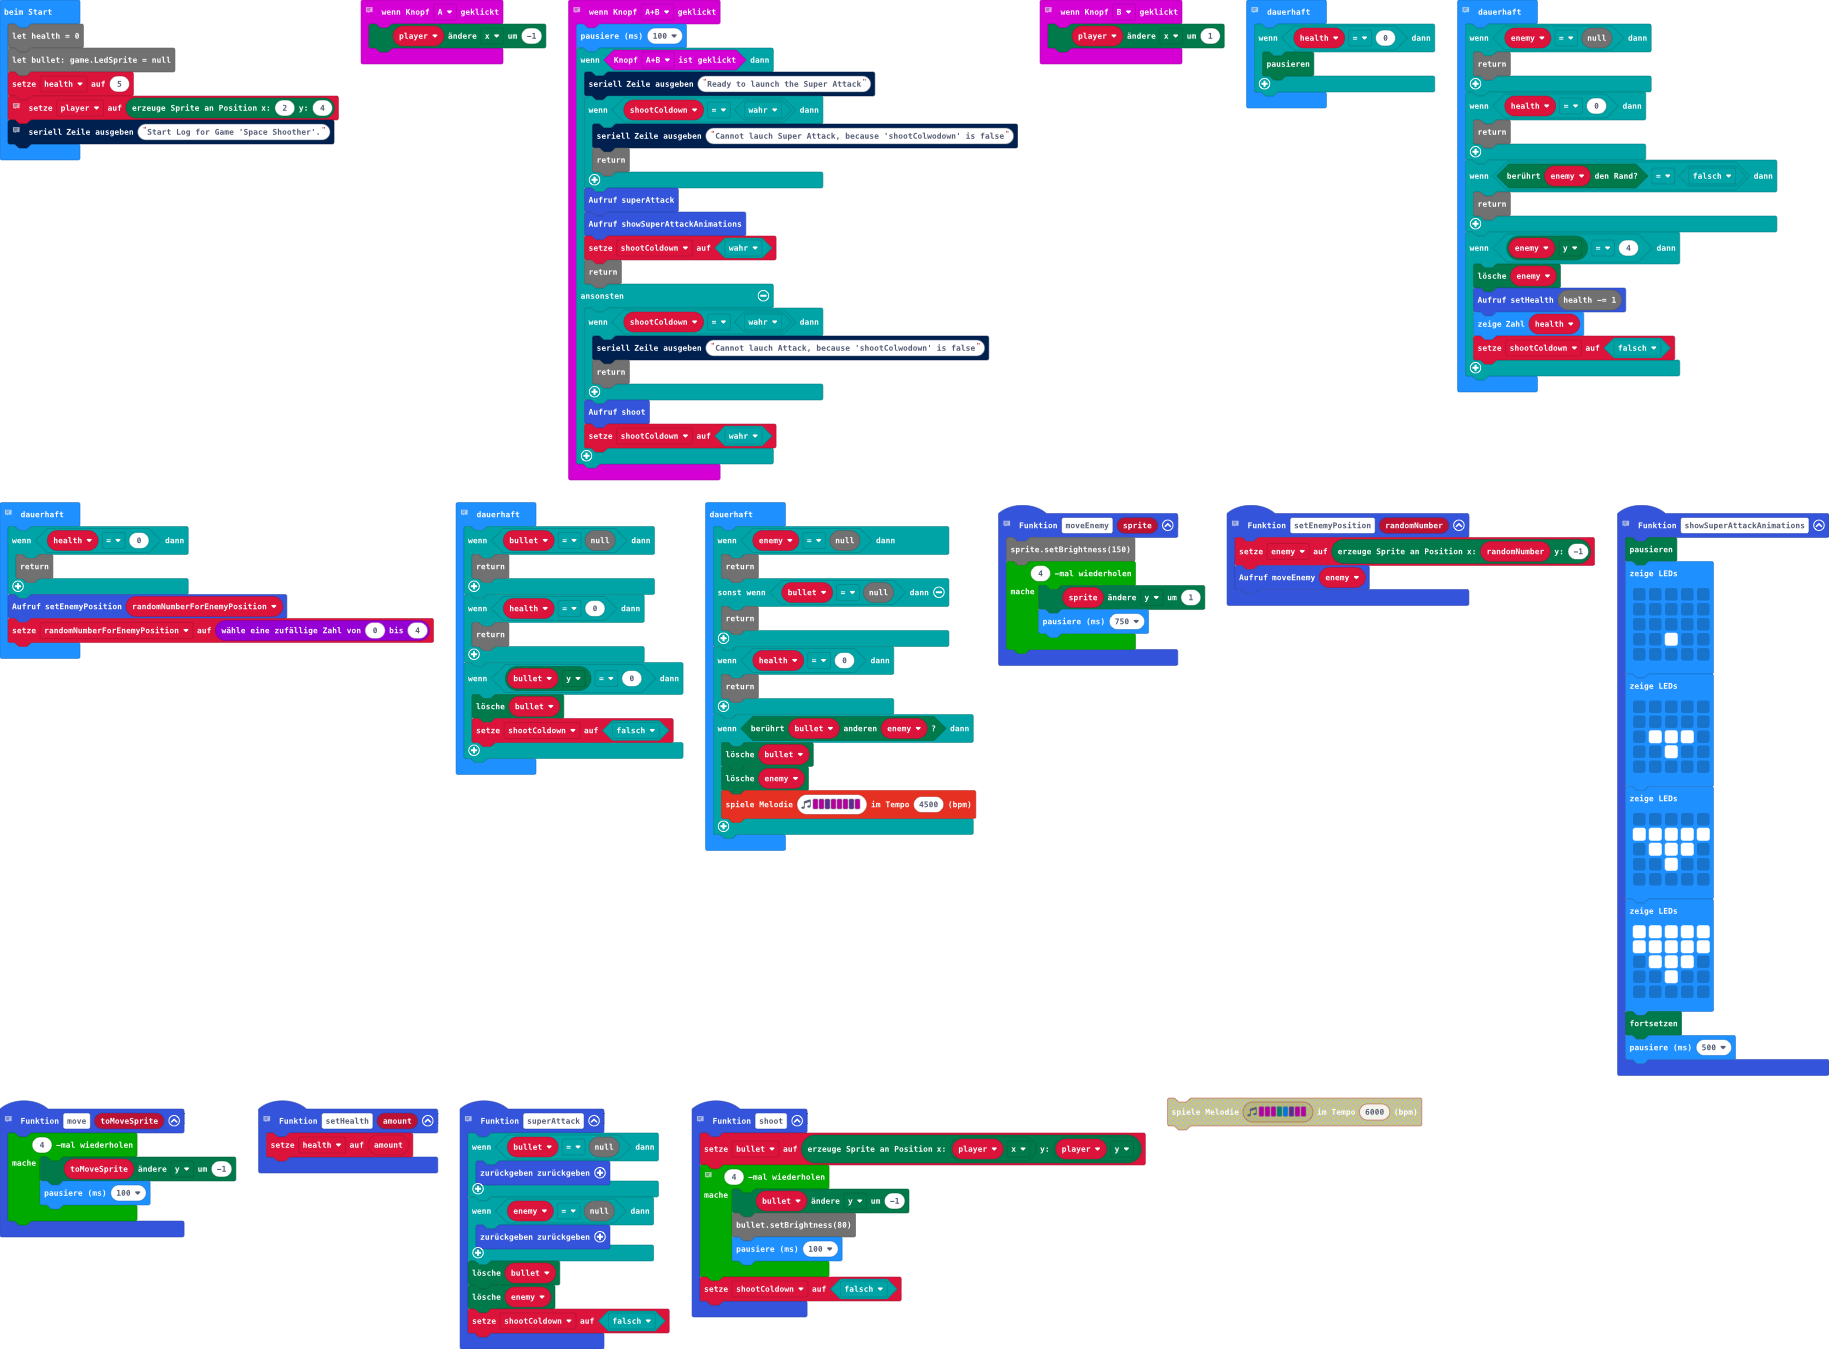
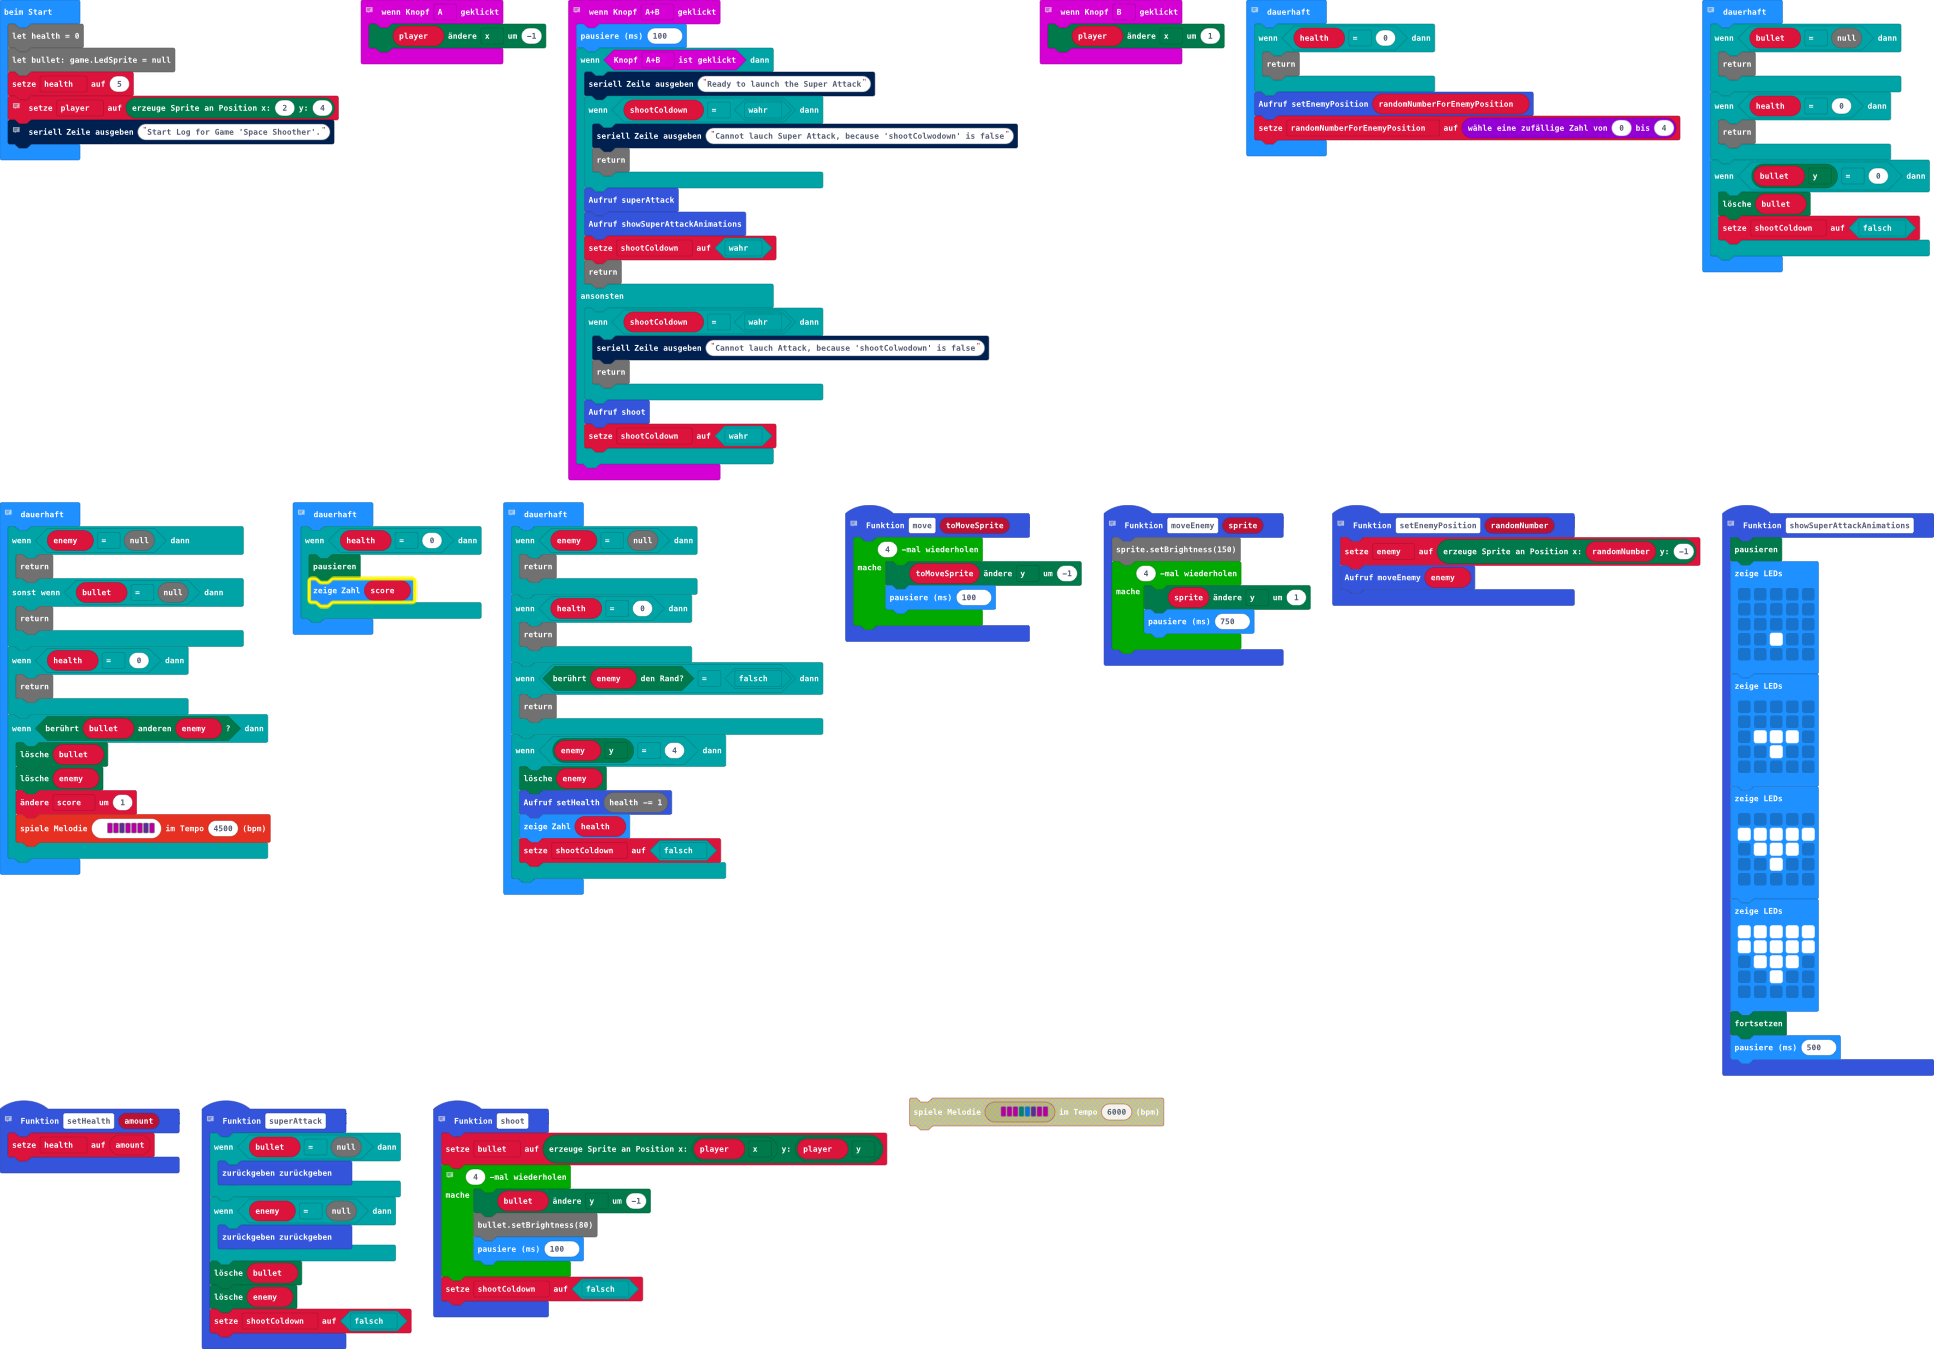
Add a Score

diff --git a/main.ts b/main.ts
@@ -109,6 +109,7 @@ function setEnemyPosition (randomNumber: number) {
     enemy = game.createSprite(randomNumber, -1)
     moveEnemy(enemy)
 }
+let score = 0
 let randomNumberForEnemyPosition = 0
 let enemy: game.LedSprite = null
 let shootColdown = false
@@ -120,13 +121,52 @@ health = 5
 player = game.createSprite(2, 4)
 // Startlog
 serial.writeLine("Start Log for Game 'Space Shoother'.")
-// Check health
+// Forever function for spawning Enemys with a random Position
+basic.forever(function () {
+    if (health == 0) {
+        return
+    }
+    setEnemyPosition(randomNumberForEnemyPosition)
+    randomNumberForEnemyPosition = randint(0, 4)
+})
+// Forever function for deleting 'bullet' when the Y - Coordinate is 0
+basic.forever(function () {
+    if (bullet == null) {
+        return
+    }
+    if (health == 0) {
+        return
+    }
+    if (bullet.get(LedSpriteProperty.Y) == 0) {
+        bullet.delete()
+        shootColdown = false
+    }
+})
+// Deleteing 'enemy' and 'bullet' when them touching herself
+basic.forever(function () {
+    if (enemy == null) {
+        return
+    } else if (bullet == null) {
+        return
+    }
+    if (health == 0) {
+        return
+    }
+    if (bullet.isTouching(enemy)) {
+        bullet.delete()
+        enemy.delete()
+        score += 1
+        music.playMelody("C C D C C C D C ", 4500)
+    }
+})
+// Check, if 'health' is 0
 basic.forever(function () {
     if (health == 0) {
         game.pause()
+        basic.showNumber(score)
     }
 })
-// Delete enemy wenn his Y - Coordinate is '4'
+// Delete 'enemy' wenn his Y - Coordinate is '4'
 basic.forever(function () {
     if (enemy == null) {
         return
@@ -142,41 +182,5 @@ basic.forever(function () {
         setHealth(health -= 1)
         basic.showNumber(health)
         shootColdown = false
-    }
-})
-// Forever function for spawning Enemys with a random Position
-basic.forever(function () {
-    if (health == 0) {
-        return
-    }
-    setEnemyPosition(randomNumberForEnemyPosition)
-    randomNumberForEnemyPosition = randint(0, 4)
-})
-// Forever function for deleting bullet
-basic.forever(function () {
-    if (bullet == null) {
-        return
-    }
-    if (health == 0) {
-        return
-    }
-    if (bullet.get(LedSpriteProperty.Y) == 0) {
-        bullet.delete()
-        shootColdown = false
-    }
-})
-basic.forever(function () {
-    if (enemy == null) {
-        return
-    } else if (bullet == null) {
-        return
-    }
-    if (health == 0) {
-        return
-    }
-    if (bullet.isTouching(enemy)) {
-        bullet.delete()
-        enemy.delete()
-        music.playMelody("C C D C C C D C ", 4500)
     }
 })
